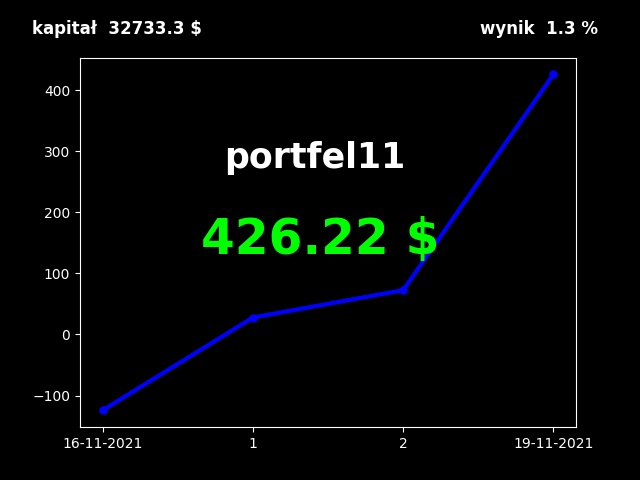
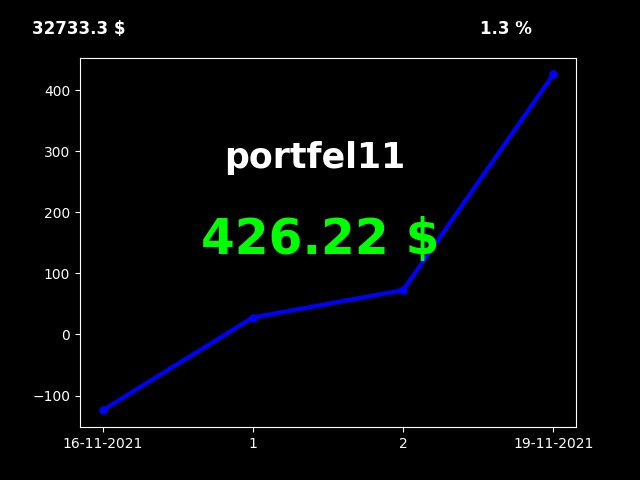
początek z działąjącym celery

Changed region(s): [[0.0312, 0.0312, 0.3125, 0.0938], [0.75, 0.0312, 0.9375, 0.0938]]

diff --git a/templates/home.html b/templates/home.html
@@ -28,7 +28,7 @@
                         </li>
                     </ul>
                 </div>
-                <div class="mx-auto" style="width: 1400px;"><h2>Zalogowany: {{ context.user }}</h2></div>
+                <div class="mx-auto" style="width: 1400px;"><h2>Witaj {{ context.user }}</h2></div>
                 <div class="text-end">Dane na dzień: {{ context.stock_date }}</div>
             </div>
         </nav>
@@ -45,7 +45,7 @@
                             <a href="/create_wallet/"><h5>Otwórz</h5></a>
                         </div><br>
                         <div class="container bg-info bg-opacity-50 rounded">
-                            <h5>PORTFELE</h5>
+                            <h5>POKAŻ PORTFELE</h5>
                             <a href="/show_wallets/"><h5>Otwórz</h5></a>
                         </div><br>
                     </div>

diff --git a/app.py b/app.py
@@ -1,4 +1,5 @@
 from flask import Flask, render_template, redirect, url_for, request
+from tasks import download_AV_price
 from db_creator import init_db
 from datetime import datetime, timedelta
 import time
@@ -6,7 +7,6 @@ import requests
 import csv
 import os
 import matplotlib.pyplot as plt
-import numpy as np
 from flask_login import login_user, LoginManager, login_required, logout_user, current_user
 from flask_wtf import FlaskForm
 from wtforms import StringField, PasswordField, SubmitField
@@ -25,7 +25,6 @@ login_manager.login_view = "login"
 @login_manager.user_loader
 def load_user(user_id):
     return Users.query.get(int(user_id))
-
 
 class Wallet:
     
@@ -97,13 +96,6 @@ class Wallet:
                 user_wallets[name] = [act for act in user_actions if act.name == name]
         return user_wallets
 
-    def download_AV_price(self, source): # Alpha Vantage API
-        r = requests.get(source)
-        weekend = {'1': 3, '7': 2}
-        if self.today_iso in weekend:
-            return r.json()['Time Series (Daily)'][str(self.today.date()-timedelta(weekend[self.today_iso]))]['4. close']
-        return r.json()['Time Series (Daily)'][str(self.today.date()-timedelta(1))]['4. close']
-
     def update_stock(self):
         today_stock = Stock.query.filter_by(date=self.today_str).all()
         today_stock_symbols = {obj.symbol for obj in today_stock}
@@ -115,7 +107,8 @@ class Wallet:
             i = 0
             for symbol in self.user_symbols:
                 AV_api_url = f'https://www.alphavantage.co/query?function=TIME_SERIES_DAILY&symbol={symbol}&apikey={self.AV_KEY}' # Alpha Vantage API
-                price = self.download_AV_price(AV_api_url) # Alpha Vantage API
+                result = self.download_AV_price.delay(AV_api_url) # Alpha Vantage API
+                price = result.get()
                 stock = Stock(
                     symbol = symbol,
                     price = price,
@@ -292,8 +285,8 @@ def home():
                     with plt.style.context('dark_background'):
                         ax.plot(data[0], data[1], 'b-o')
                     fig.text(0.35, 0.65, f'{name}', color='white', size=25,  fontweight='bold')
-                    fig.text(0.75, 0.93, f'''wynik  {wallets_values[f'{name}']['wallet_perc']} %''', color='white', size=12, fontweight='bold')
-                    fig.text(0.05, 0.93, f'''kapitał  {wallets_values[f'{name}']['wallet_invest']} $''', color='white', size=12, fontweight='bold')
+                    fig.text(0.75, 0.93, f'''{wallets_values[f'{name}']['wallet_perc']} %''', color='white', size=12, fontweight='bold')
+                    fig.text(0.05, 0.93, f'''{wallets_values[f'{name}']['wallet_invest']} $''', color='white', size=12, fontweight='bold')
                     if wallets_values[f'{name}']['wallet_profit'] >= 0:
                         fig.text(0.5, 0.5, f'''{wallets_values[f'{name}']['wallet_profit']} $''', color='#00FF00', fontweight='bold',
                             ha='center', va='center', size=35)

diff --git a/tasks.py b/tasks.py
@@ -1,0 +1,18 @@
+from celery import Celery
+from app import Wallet
+import requests
+from datetime import timedelta
+
+celery = Celery(
+    'tasks',
+    broker='sqla+sqlite:///celery.db',
+	backend='db+sqlite:///celery_results.db'
+	)
+
+@celery.task
+def download_AV_price(source): # Alpha Vantage API
+    r = requests.get(source)
+    weekend = {'1': 3, '7': 2}
+    if Wallet.today_iso in weekend:
+        return r.json()['Time Series (Daily)'][str(Wallet.today.date()-timedelta(weekend[Wallet.today_iso]))]['4. close']
+    return r.json()['Time Series (Daily)'][str(Wallet.today.date()-timedelta(1))]['4. close']
